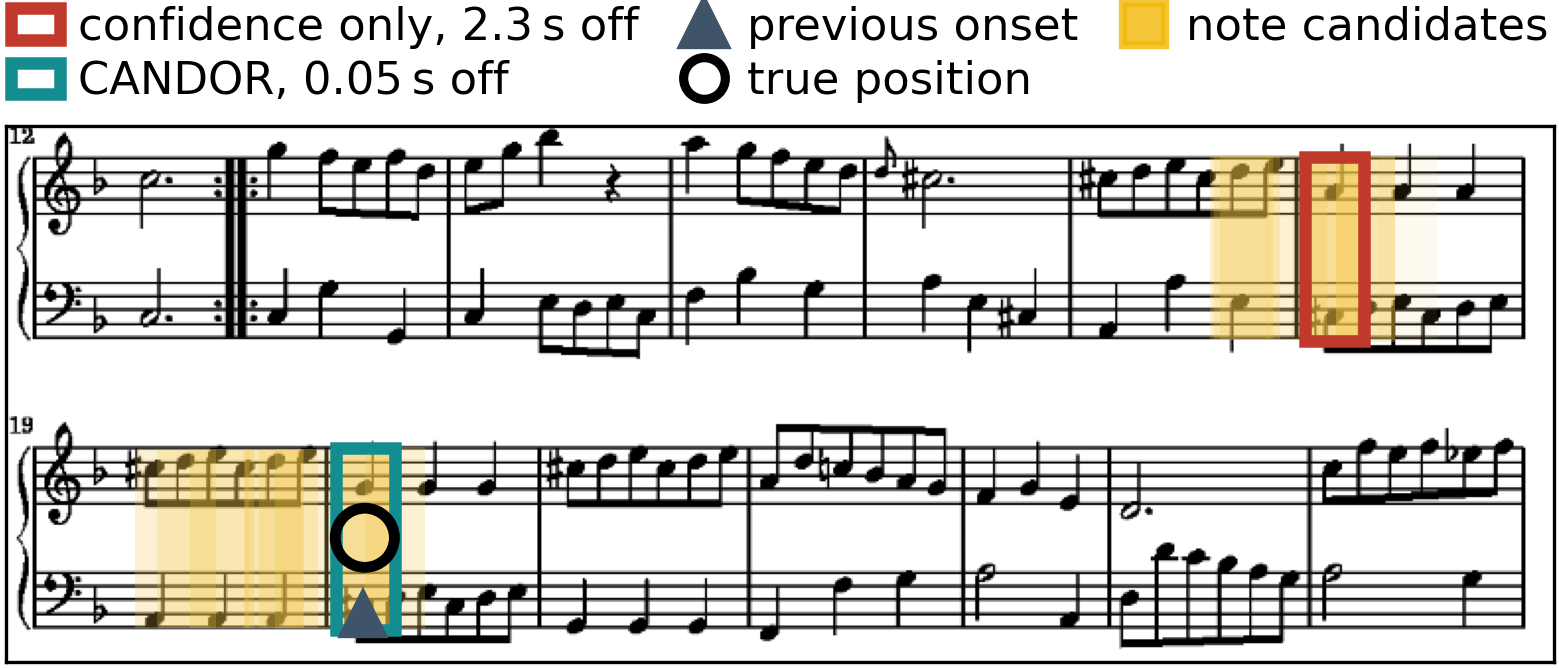
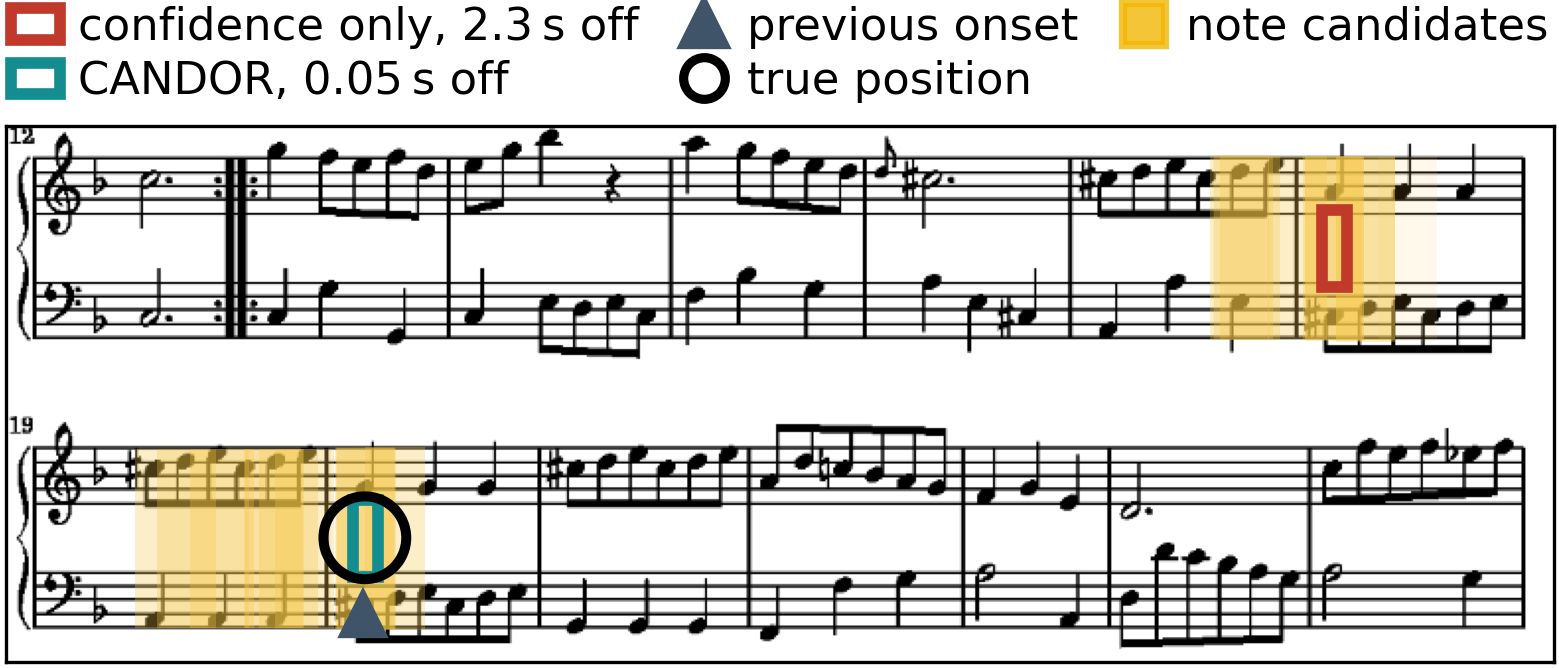
Shorten the model-selection paragraph; smaller marks in Fig. 1
The reviewer wants the r=0.16 result kept and its explanation cut, so it
is three sentences now instead of four; the clause about why our
constants are cross-validated was a second telling of what 3.1 says.

Fig. 1: the detector's boxes are staff-height, so drawn at full size the
red and teal outlines read as regions rather than positions. Both now
mark a point at 42% of the box, and the true-position ring is sized to
encircle the teal one, which is the right reading when the two are 0.05s
apart. Candidate alpha 0.085 to 0.11 so a pile-up separates from a
single box.

Claude-Session: https://claude.ai/code/session_01Usokh9WtaRAVNcry6zLcpS

Changed region(s): [[0.1847, 0.6587, 0.2771, 0.9581], [0.8313, 0.2096, 0.8929, 0.5389]]

diff --git a/paper/icassp2027-select/figs/make_fig_example.py b/paper/icassp2027-select/figs/make_fig_example.py
@@ -125,15 +125,22 @@ def main():
     for r in range(min(TOPN, len(x)))[::-1]:
         ax.add_patch(Rectangle((x[r] - w[r] / 2, y[r] - h[r] / 2), w[r], h[r],
                                facecolor='#f7c948', edgecolor='none',
-                               alpha=0.085))
-    ax.add_patch(Rectangle((x[0] - w[0] / 2, y[0] - h[0] / 2), w[0], h[0], fill=False,
-                           lw=1.5, ec='#C0392B', label=f'confidence only, {eb:.1f}\u2009s off'))
-    ax.add_patch(Rectangle((x[io] - w[io] / 2, y[io] - h[io] / 2), w[io], h[io], fill=False,
-                           lw=1.5, ec='#138D90', label=f'CANDOR, {eo:.2f}\u2009s off'))
+                               alpha=0.11))
+    # the detector's boxes are staff-height, 30 by 93 px, so drawn at full
+    # size the two outlines are tall bars that read as regions rather than as
+    # positions. Both mark a point, so they are drawn at a fraction of the box
+    # about the same centre.
+    MS = 0.42
+    for xc, yc, wc, hc, col, lab in (
+            (x[0], y[0], w[0], h[0], '#C0392B', f'confidence only, {eb:.1f}\u2009s off'),
+            (x[io], y[io], w[io], h[io], '#138D90', f'CANDOR, {eo:.2f}\u2009s off')):
+        ax.add_patch(Rectangle((xc - MS * wc / 2, yc - MS * hc / 2),
+                               MS * wc, MS * hc, fill=False, lw=1.4, ec=col,
+                               label=lab))
     if xp is not None:
         ax.plot([xp], [y1 - 24], marker='^', ms=4.5, color='#3f5468',
                 ls='none')
-    ax.add_patch(Circle((xg, yg), 15, fill=False, lw=1.3, ec='k'))
+    ax.add_patch(Circle((xg, yg), 21, fill=False, lw=1.2, ec='k'))
     # legend proxies: a Patch renders as a rectangle whatever shape it is, so
     # the ring was advertised as a square. Draw the handles as markers.
     ax.plot([], [], marker='^', ms=5, color='#3f5468', ls='none',

diff --git a/paper/icassp2027-select/main.tex b/paper/icassp2027-select/main.tex
@@ -452,12 +452,10 @@ an already released one achieves.
 
 Across 48 trained models, accuracy on the synthesized validation split
 correlates $r=0.16$ with accuracy on the real recordings
-(Fig.~\ref{fig:analysis}b), and the best-validation model scores 89.3 on real
-audio, below one reading no image features at all. A reverberant held-out set
-correlates more strongly ($r=0.80$) yet still selects poorly. Since the whole
-field selects models on synthesized audio, this is a caution beyond our own
-experiments, and it is why our constants are cross-validated on the target
-recordings instead.
+(Fig.~\ref{fig:analysis}b), and the best-validation model scores 89.3, below
+one reading no image features at all. A reverberant held-out set correlates
+more strongly ($r=0.80$) yet still selects poorly. Since the field selects
+models on synthesized audio, this is a caution beyond our own experiments.
 
 \section{Conclusion}
 \label{sec:conclusion}
